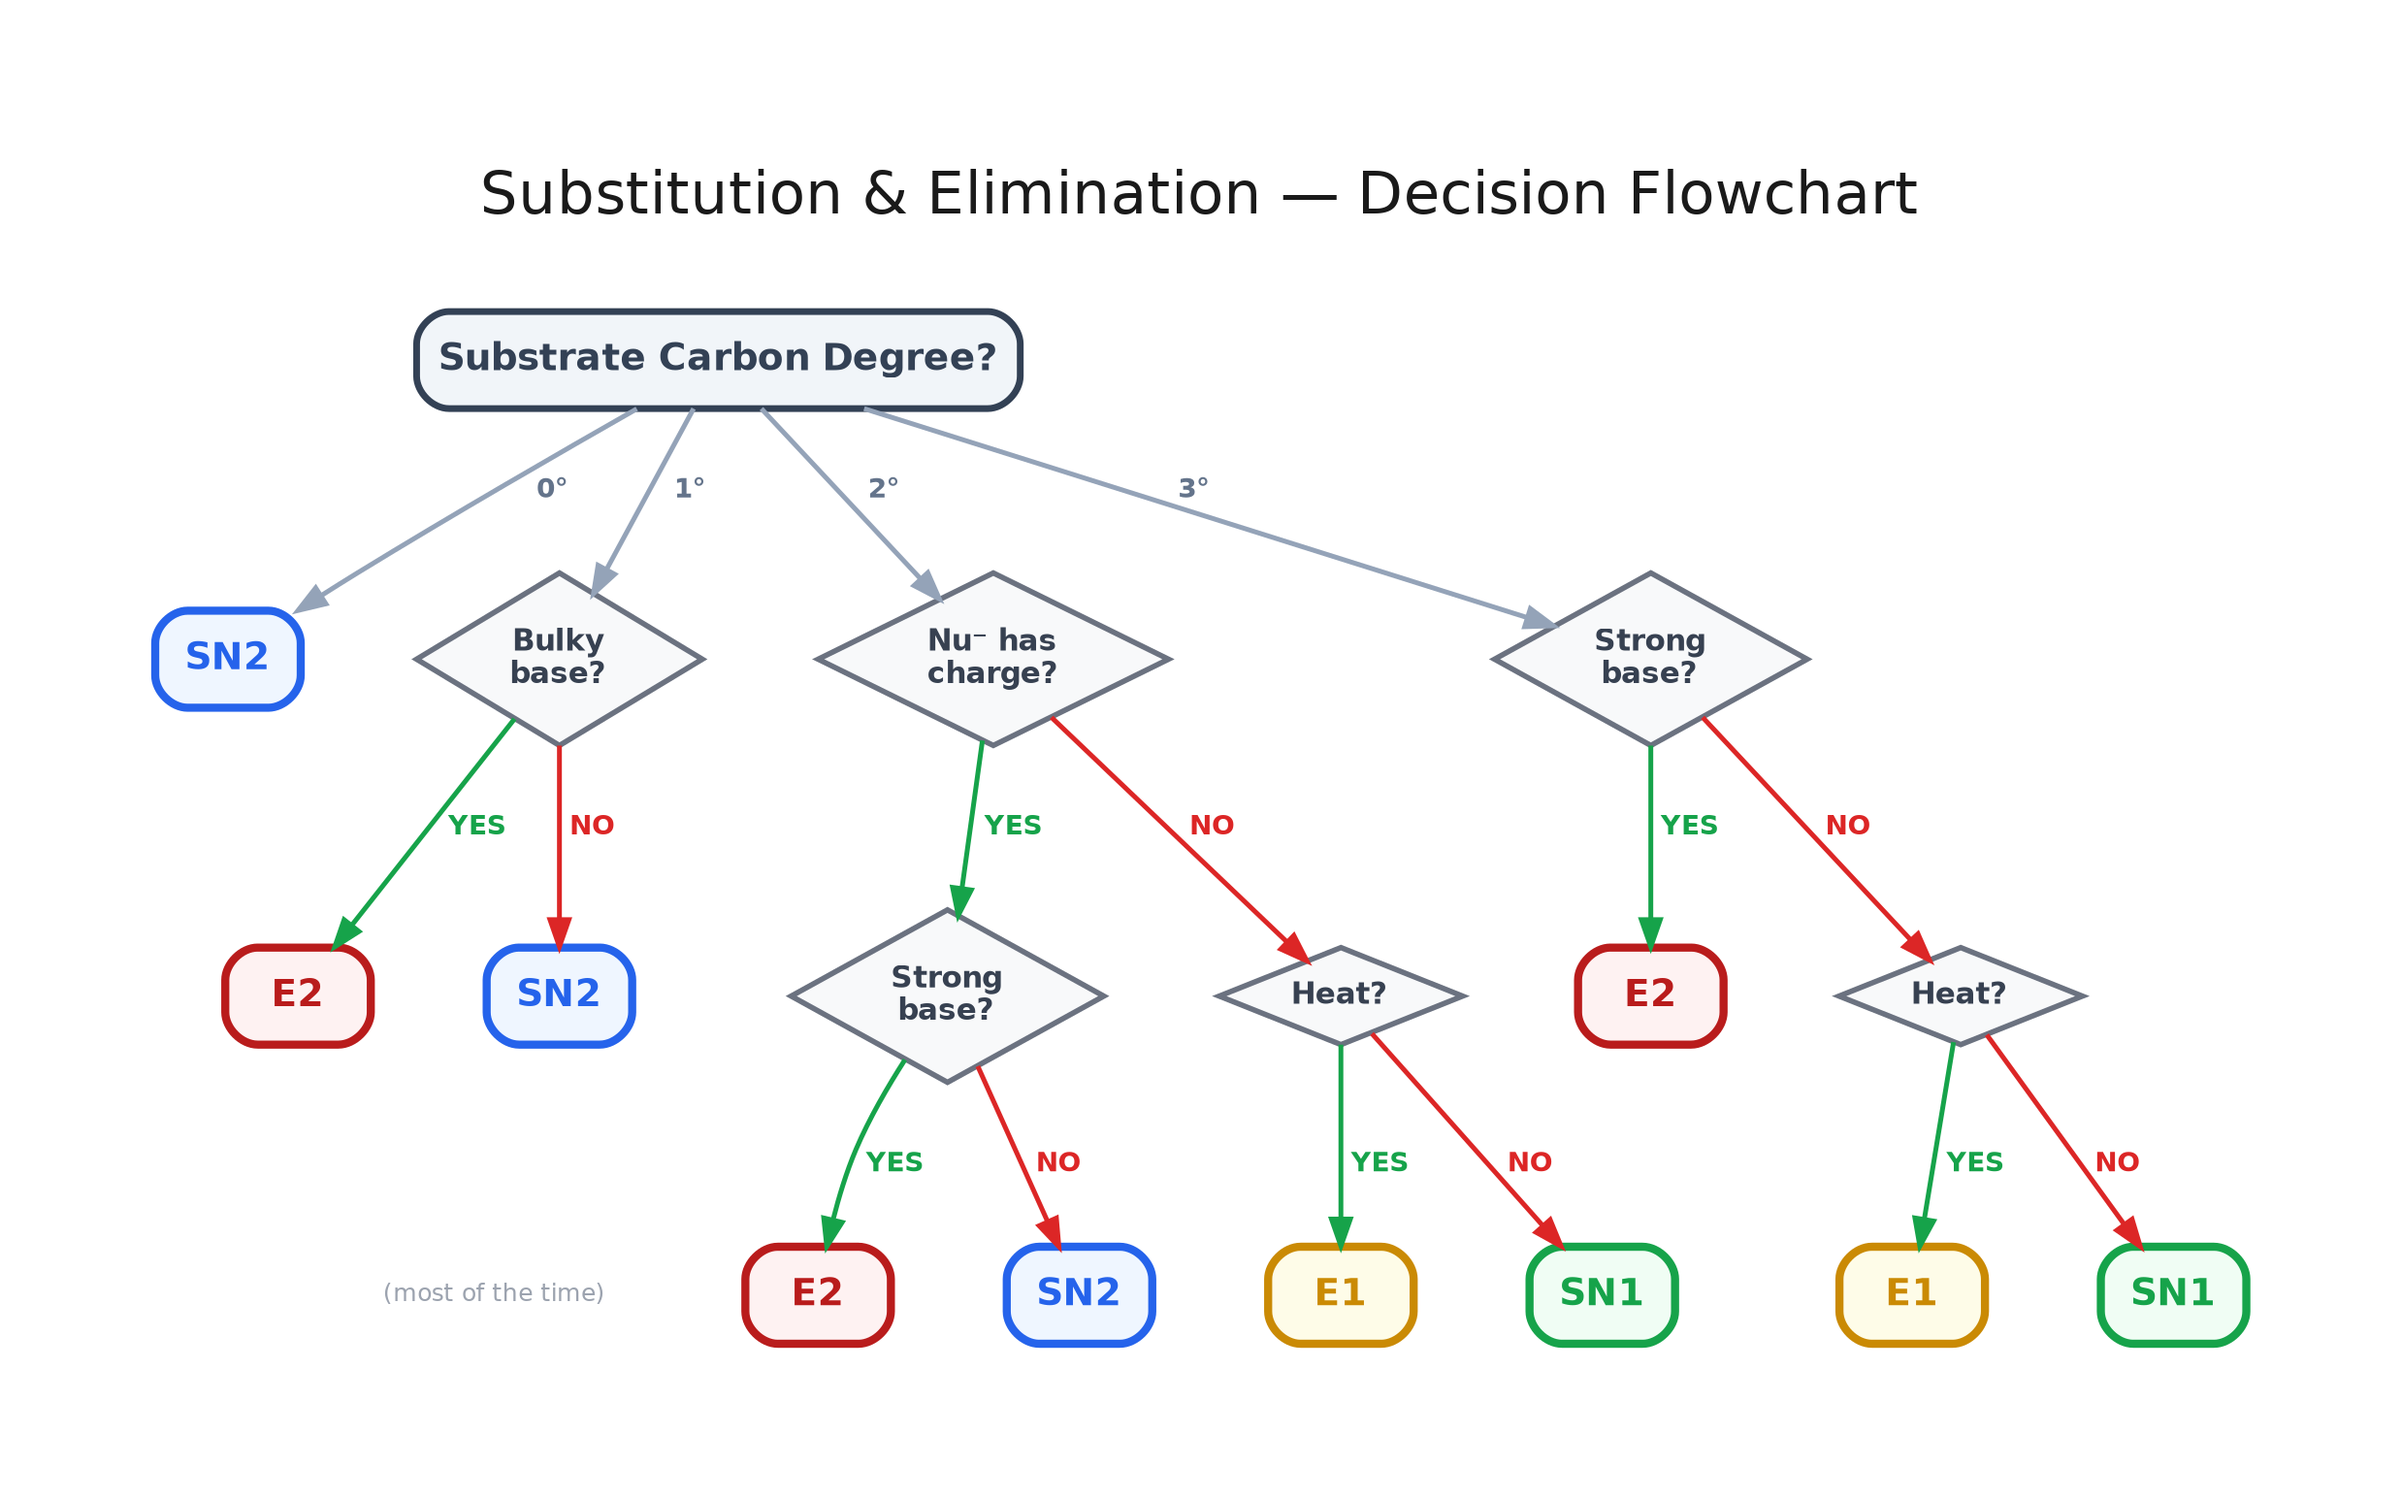
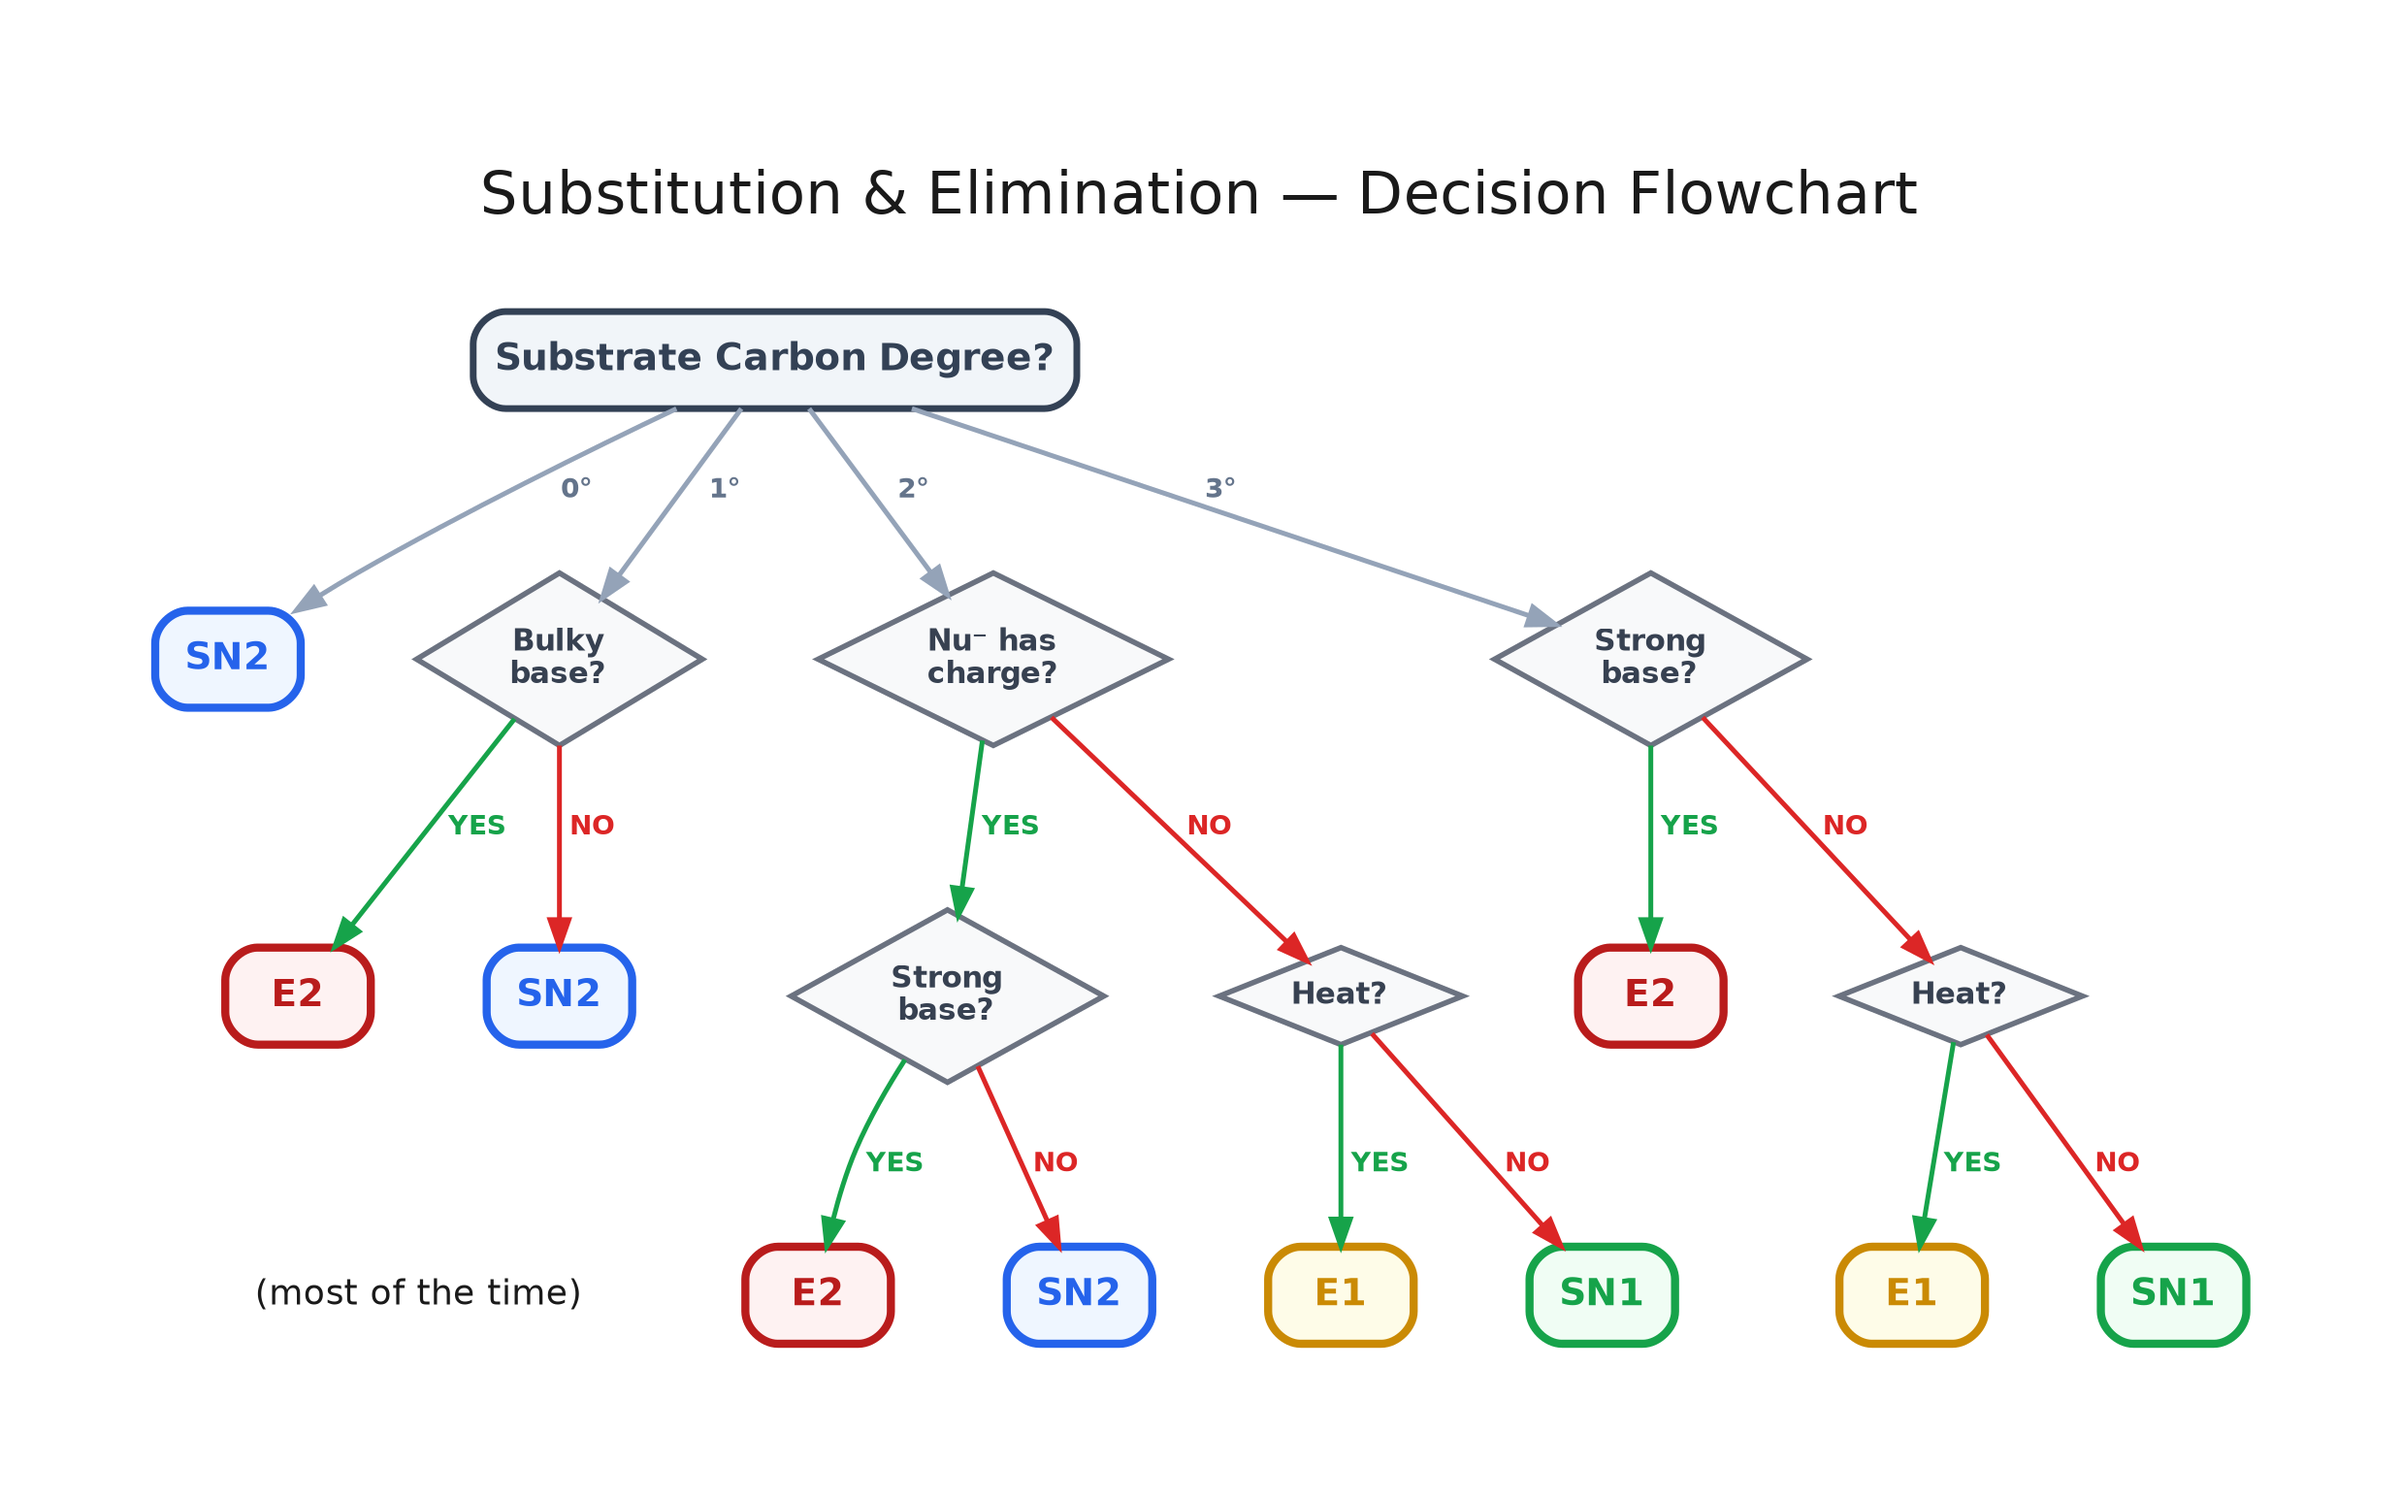
Add files via upload

diff --git a/index.html b/index.html
@@ -58,7 +58,7 @@
 
   /* Note */
   .note rect { fill: transparent !important; stroke: none !important; }
-  .note .nodeLabel { color: #9ca3af !important; font-style: italic !important; font-size: 11px !important; }
+  .note .nodeLabel { color: #1a1a1a !important; font-style: italic !important; font-size: 14px !important; }
 
   /* Edge labels */
   .edgeLabel { font-size: 12px !important; font-weight: 700 !important; }
@@ -96,7 +96,7 @@ flowchart TD
     START -- "1°" --> Q1{"Bulky base?"}:::question
     Q1 -- "Yes" --> E2_1["<b>E2</b>"]:::e2
     Q1 -- "No" --> SN2_1["<b>SN2</b>"]:::sn2
-    SN2_1 ~~~ NOTE1["(most of the time)"]:::note
+    SN2_1 ~~~ NOTE1["mostly"]:::note
 
     START -- "2°" --> Q2{"Nu⁻ has charge?"}:::question
     Q2 -- "Yes" --> Q2A{"Strong base?"}:::question
@@ -118,7 +118,7 @@ flowchart TD
     classDef sn1 fill:#f0fdf4,stroke:#16a34a,stroke-width:3px,color:#16a34a,font-weight:700
     classDef e2 fill:#fef2f2,stroke:#b91c1c,stroke-width:3px,color:#b91c1c,font-weight:700
     classDef e1 fill:#fefce8,stroke:#ca8a04,stroke-width:3px,color:#ca8a04,font-weight:700
-    classDef note fill:transparent,stroke:none,color:#9ca3af,font-style:italic
+    classDef note fill:transparent,stroke:none,color:#1a1a1a,font-size:14px
 
     linkStyle 0 stroke:#94a3b8,stroke-width:2px
     linkStyle 1 stroke:#94a3b8,stroke-width:2px

diff --git a/sn_e_flowchart.html b/sn_e_flowchart.html
@@ -58,7 +58,7 @@
 
   /* Note */
   .note rect { fill: transparent !important; stroke: none !important; }
-  .note .nodeLabel { color: #9ca3af !important; font-style: italic !important; font-size: 11px !important; }
+  .note .nodeLabel { color: #1a1a1a !important; font-style: italic !important; font-size: 14px !important; }
 
   /* Edge labels */
   .edgeLabel { font-size: 12px !important; font-weight: 700 !important; }
@@ -118,7 +118,7 @@ flowchart TD
     classDef sn1 fill:#f0fdf4,stroke:#16a34a,stroke-width:3px,color:#16a34a,font-weight:700
     classDef e2 fill:#fef2f2,stroke:#b91c1c,stroke-width:3px,color:#b91c1c,font-weight:700
     classDef e1 fill:#fefce8,stroke:#ca8a04,stroke-width:3px,color:#ca8a04,font-weight:700
-    classDef note fill:transparent,stroke:none,color:#9ca3af,font-style:italic
+    classDef note fill:transparent,stroke:none,color:#1a1a1a,font-size:14px
 
     linkStyle 0 stroke:#94a3b8,stroke-width:2px
     linkStyle 1 stroke:#94a3b8,stroke-width:2px
